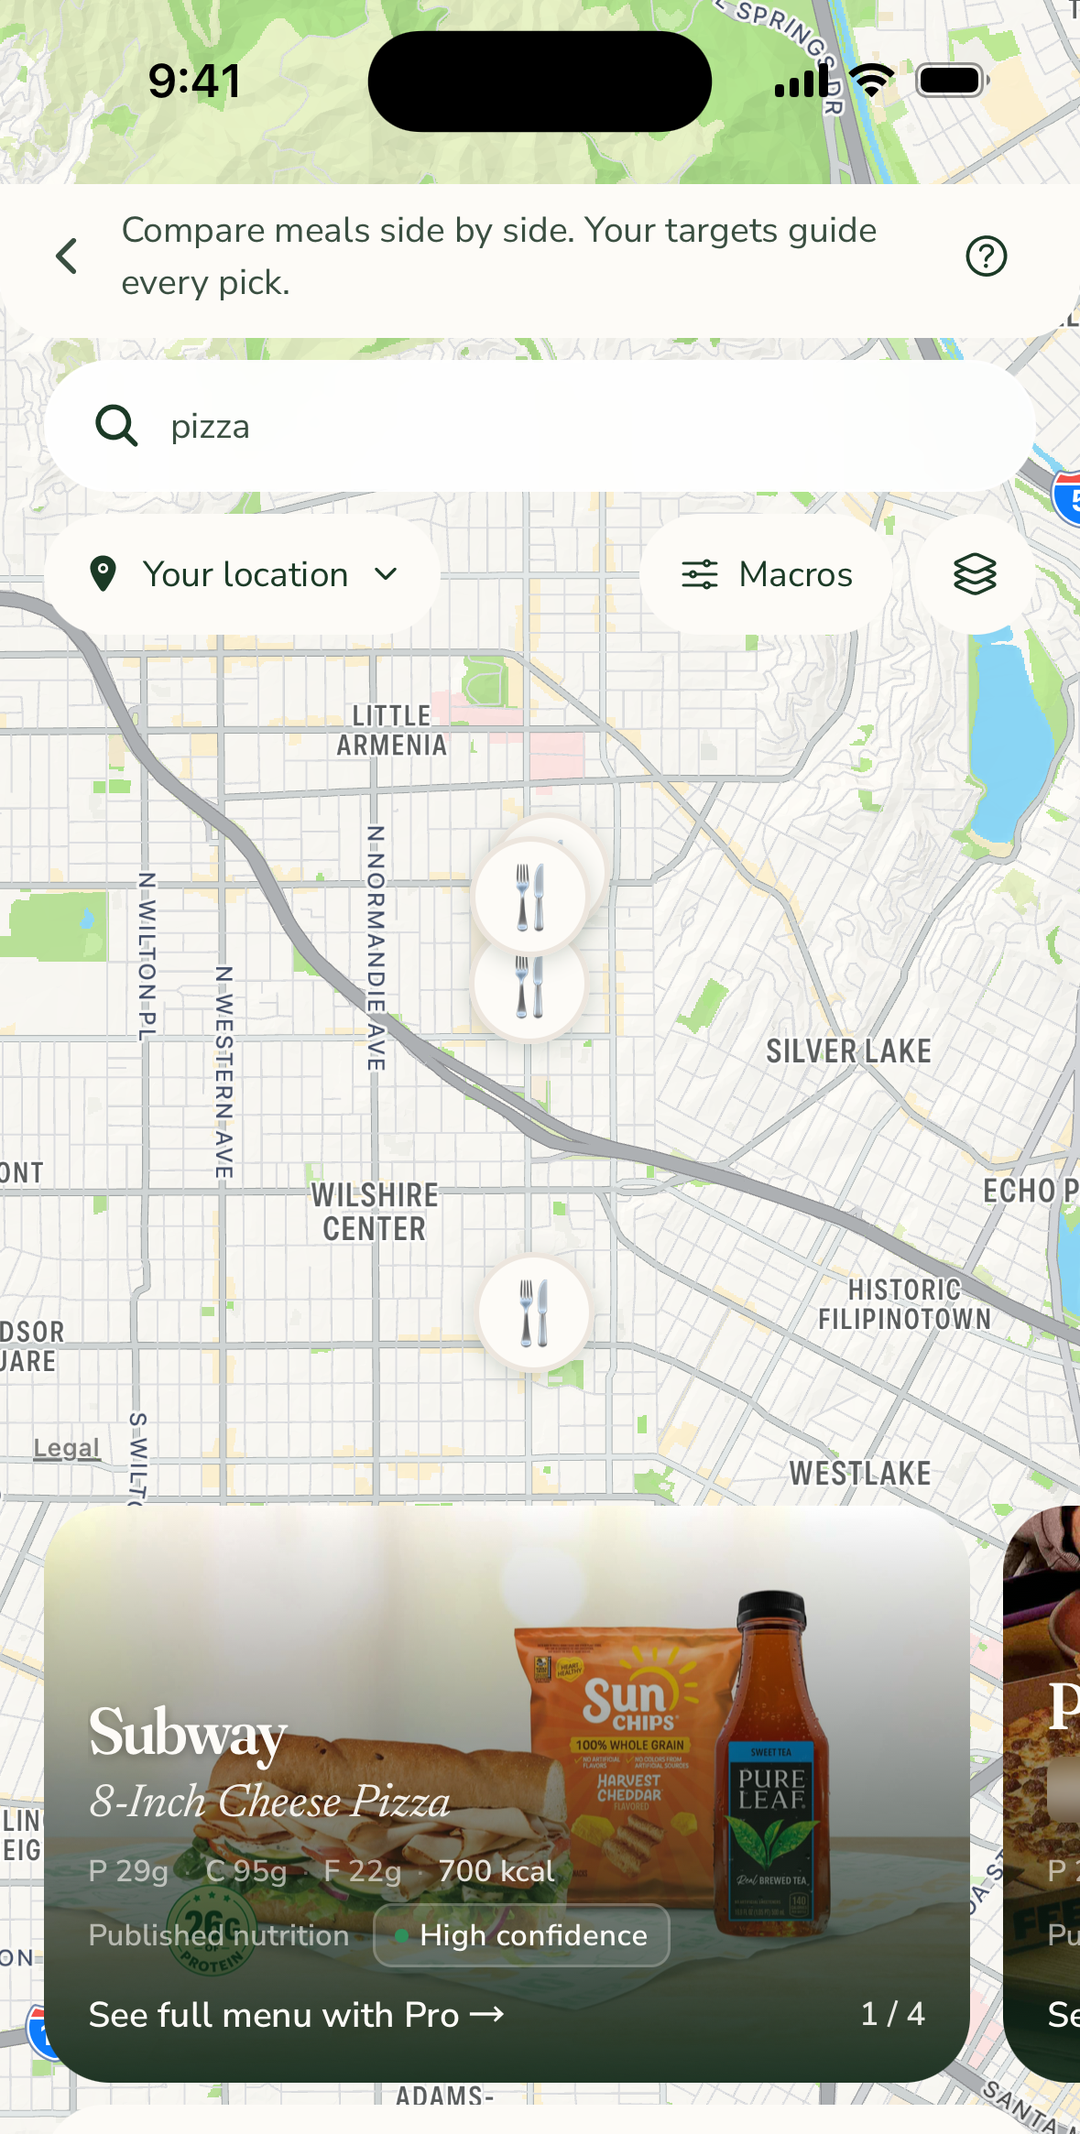
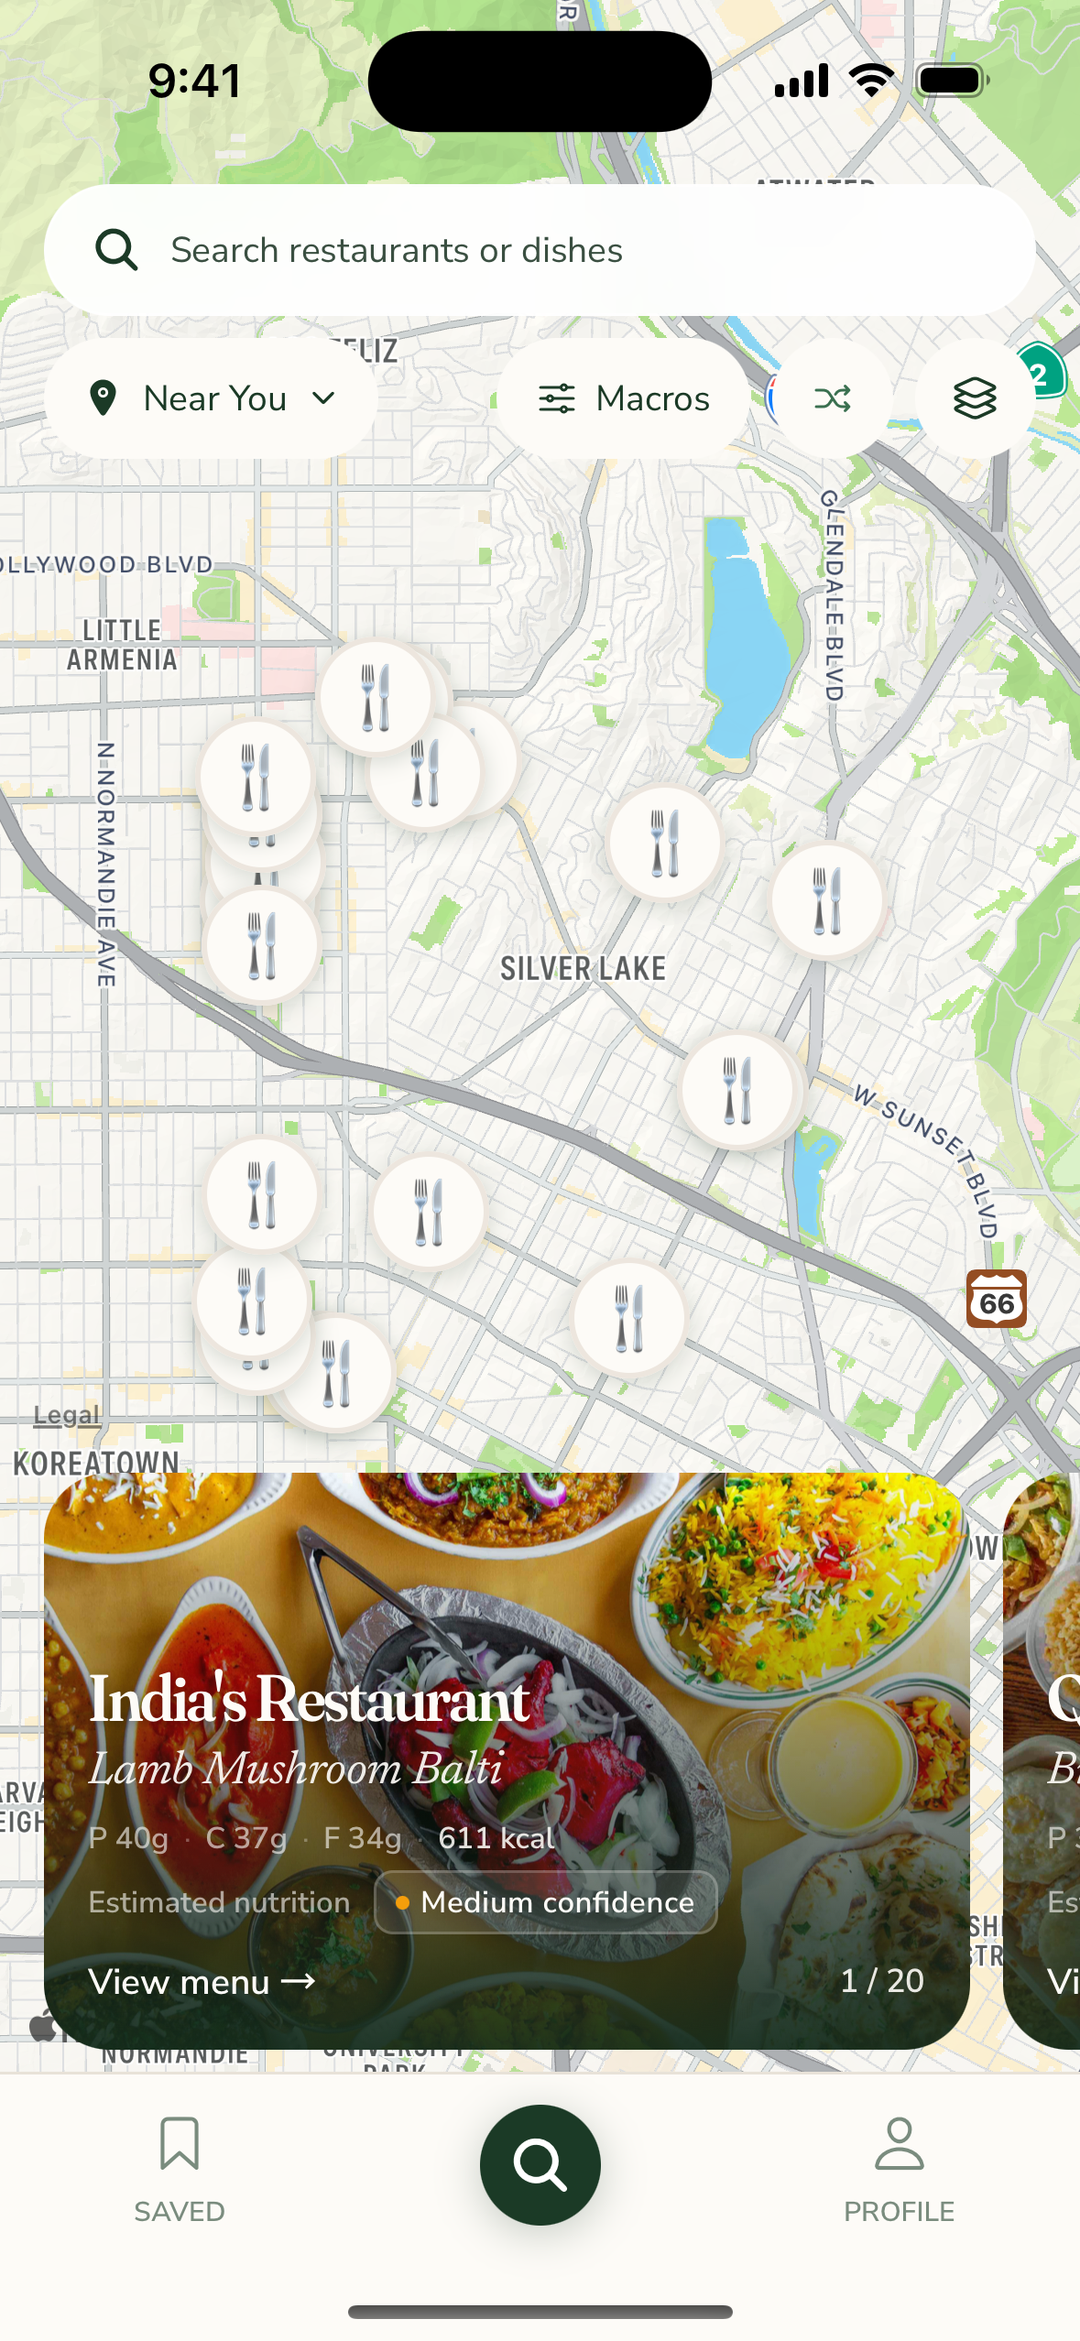
Recapture hero with the real Discovery map, fix remaining FAQ waitlist text
Hero screenshot was still the onboarding guided preview (back arrow,
"Compare meals side by side" banner, 3-pin cap). Recaptured as a
signed-in, entitled user sees it: the real map tab, full toolbar,
tab bar, and 20 well-spread pins across Silver Lake/Echo Park/
Koreatown with real unlocked card content. Used the full native
screenshot (no cropping) so its aspect ratio matches the phone
mockup frame almost exactly, fixing the alignment/corner-radius
mismatch from the previous crop.

Also fixes the AI review's P2 finding: two restaurant/dish detail
page FAQs still said "Join the Fitsy waitlist" after the waitlist UI
was removed. Replaced with the same Coming soon framing used
elsewhere on the site.

diff --git a/apps/api/app/restaurants/[slug]/page.tsx b/apps/api/app/restaurants/[slug]/page.tsx
@@ -376,7 +376,7 @@ export default async function RestaurantPage({
         )}
         <FaqItem
           q={`Is ${restaurant.name} good for macro tracking?`}
-          a={`${restaurant.name} is macro-friendly with detailed nutrition data for its entire menu. Join the Fitsy waitlist to get personalized meal recommendations based on your specific protein, carb, and fat targets when the app launches.`}
+          a={`${restaurant.name} is macro-friendly with detailed nutrition data for its entire menu. Fitsy is coming soon to iPhone, Los Angeles first, with personalized meal recommendations based on your specific protein, carb, and fat targets.`}
         />
       </section>
 

diff --git a/apps/api/app/restaurants/[slug]/[itemSlug]/page.tsx b/apps/api/app/restaurants/[slug]/[itemSlug]/page.tsx
@@ -290,7 +290,7 @@ export default async function MenuItemPage({
         )}
         <FaqItem
           q={`Is the ${item.name} good for macro tracking?`}
-          a={`The ${item.name} at ${restaurantName} has complete macro data available in the Fitsy app. Join the Fitsy waitlist to get personalized recommendations based on your protein, carb, and fat targets when the app launches.`}
+          a={`The ${item.name} at ${restaurantName} has complete macro data available in the Fitsy app. Fitsy is coming soon to iPhone, Los Angeles first, with personalized recommendations based on your protein, carb, and fat targets.`}
         />
       </section>
 
